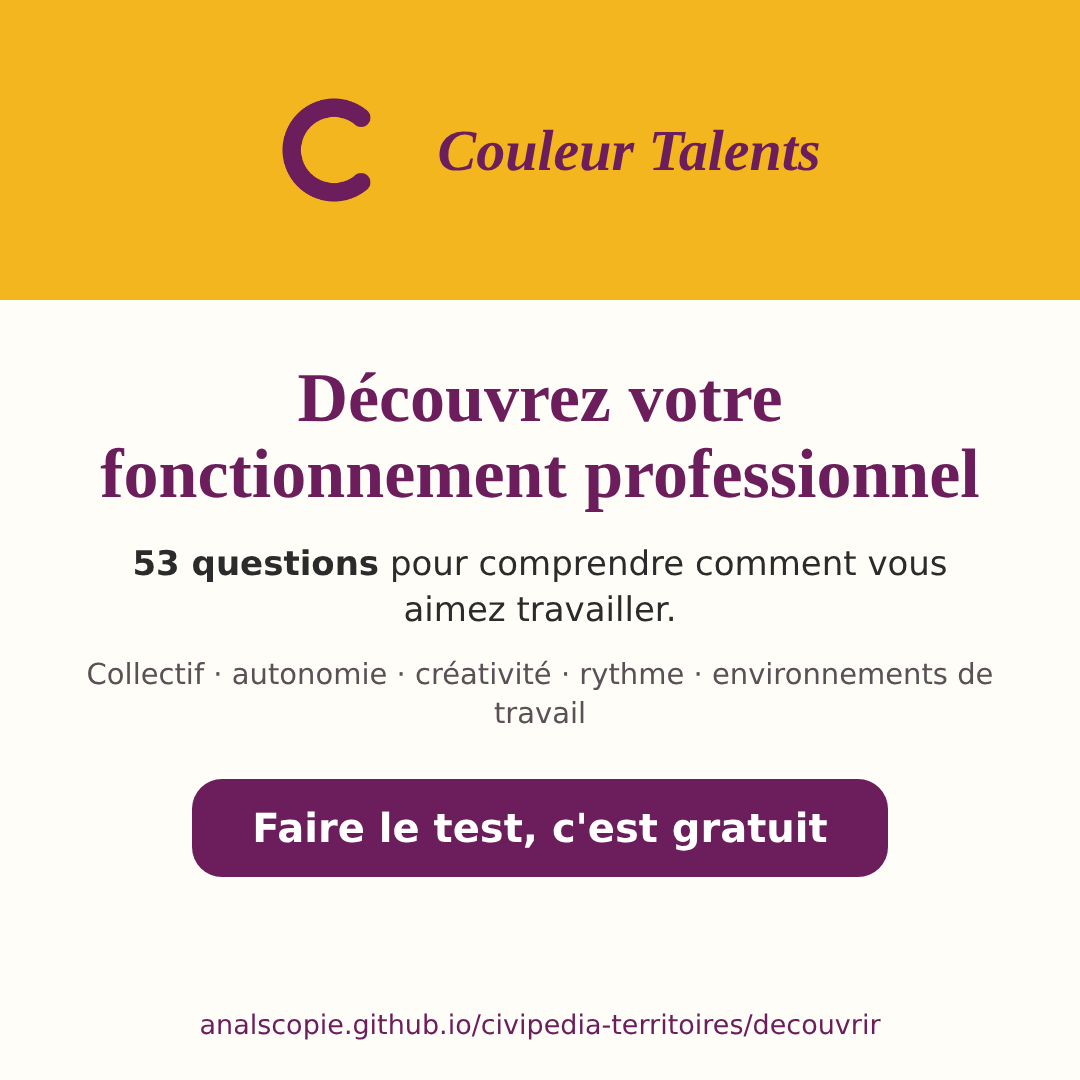
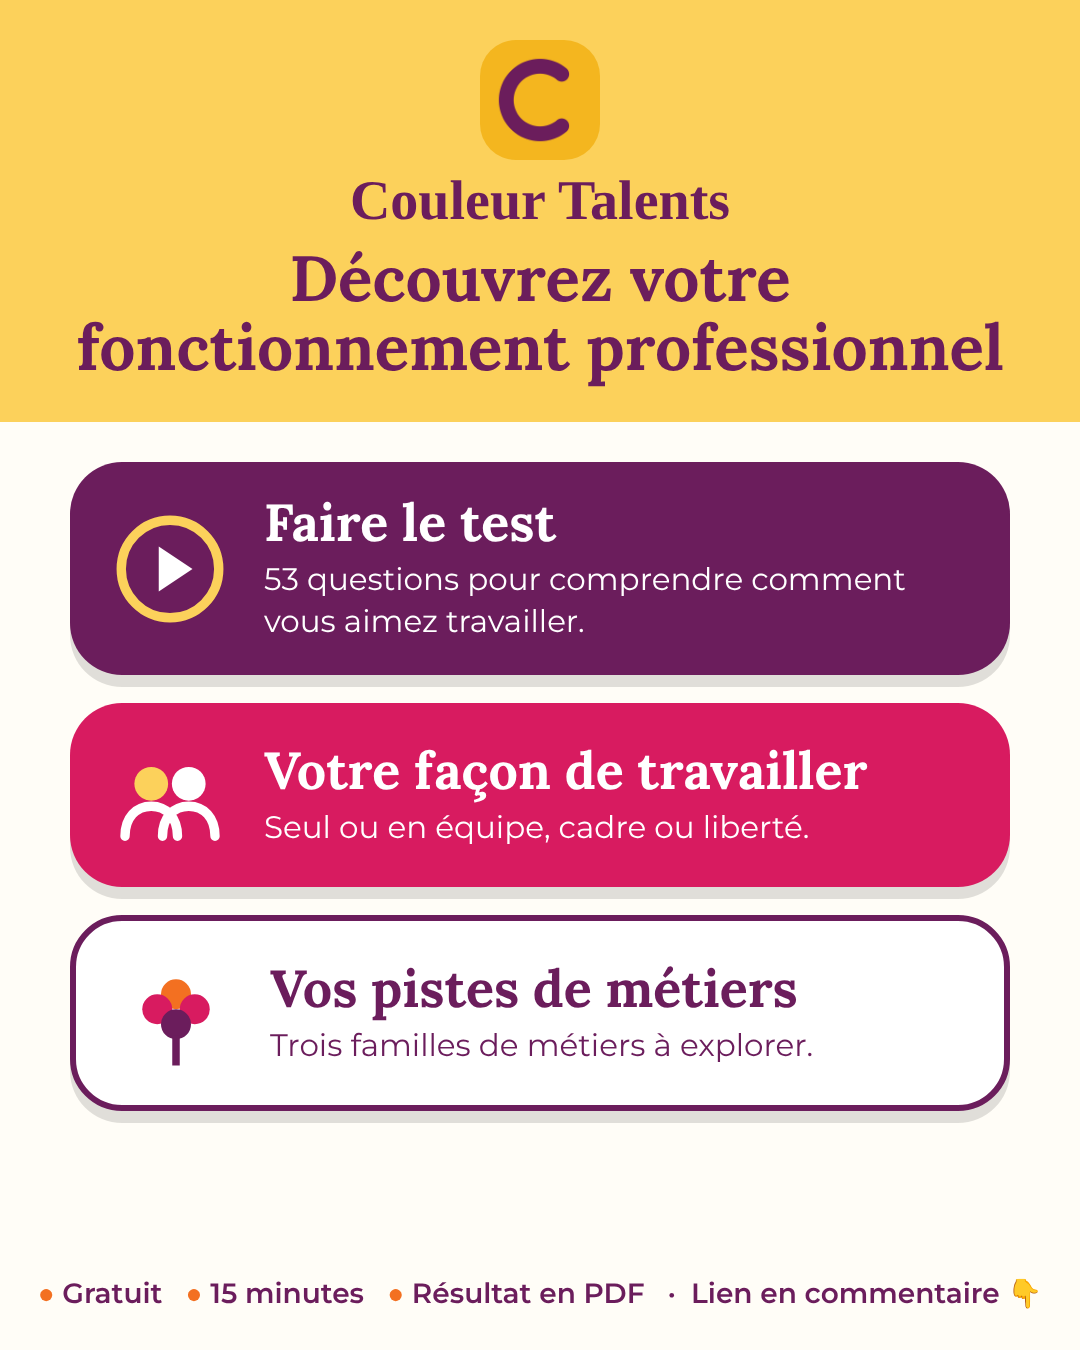
Page Découvrir : style « Mes outils » à gros boutons ; nouvelle image de partage
Claude-Session: https://claude.ai/code/session_01CiTsUJ8RFz2WJzeSsrXTs4

diff --git a/decouvrir/index.html b/decouvrir/index.html
@@ -2,7 +2,7 @@
 <html lang="fr">
 <head>
 <meta charset="utf-8">
-<meta name="viewport" content="width=device-width, initial-scale=1">
+<meta name="viewport" content="width=device-width, initial-scale=1, viewport-fit=cover">
 <title>Découvrez votre fonctionnement professionnel – Couleur Talents</title>
 <meta name="description" content="53 questions pour comprendre comment vous aimez travailler. Un questionnaire d'orientation Couleur Talents, gratuit, avec votre résultat en PDF.">
 <meta property="og:title" content="Découvrez votre fonctionnement professionnel">
@@ -10,76 +10,61 @@
 <meta property="og:image" content="https://analscopie.github.io/civipedia-territoires/decouvrir/partage.png">
 <meta property="og:type" content="website">
 <meta name="twitter:card" content="summary_large_image">
-<meta name="theme-color" content="#FCD15B">
+<meta name="theme-color" content="#F4B61F">
 <link rel="icon" href="icones/icone-192.png">
 <link rel="apple-touch-icon" href="icones/apple-touch-icon.png">
-<link href="https://fonts.googleapis.com/css2?family=Lora:wght@600;700&family=Montserrat:wght@400;500;600;700&display=swap" rel="stylesheet">
+<link href="https://fonts.googleapis.com/css2?family=Lora:wght@700&family=Montserrat:wght@500;600&family=Caveat:wght@600&display=swap" rel="stylesheet">
 <style>
-/* Style des fiches d'analyse Couleur Talents : bandeau jaune arrondi, titres Lora prune,
-   petites étiquettes en capitales, encadrés pastel, bandeau violet en pied de page. */
-:root{--jaune:#FCD15B;--prune:#6B1D5C;--rose:#D81B60;--orange:#F37021;--fond:#FFFDF7;--texte:#2B2B2B;--pj:#FEF3CF;--pr:#F6E6EF;--trait:#F1E6CF}
+/* Même style que la page « Mes outils » : bandeau jaune, gros boutons colorés avec icône. */
+:root{--safran:#FCD15B;--prune:#6B1D5C;--orange:#F37021;--rose:#D81B60;--fond:#FFFDF7;--texte:#2B2B2B}
 *{box-sizing:border-box}
-body{margin:0;background:var(--fond);color:var(--texte);font:17px/1.55 Montserrat,system-ui,sans-serif}
-header{background:var(--jaune);border-radius:0 0 34px 34px;padding:26px 22px 34px}
-.haut{max-width:720px;margin:0 auto}
-.etiquette{font-size:13px;font-weight:700;letter-spacing:.09em;text-transform:uppercase;color:var(--prune);margin:0 0 10px}
-.ligne{display:flex;justify-content:space-between;align-items:flex-start;gap:16px}
-h1{font-family:Lora,Georgia,serif;color:var(--prune);font-size:clamp(32px,7vw,48px);line-height:1.08;margin:0;text-wrap:balance}
-.logo{flex:none;text-align:right;font-family:Lora,Georgia,serif;color:var(--prune);font-size:17px;line-height:1.1}
-.logo svg{display:block;margin:0 0 4px auto;width:44px;height:52px}
-.sous{font-weight:600;margin:12px 0 22px;font-size:18px}
-.bouton{display:block;text-align:center;background:var(--prune);color:#fff;text-decoration:none;font-weight:700;font-size:22px;border-radius:20px;padding:20px 24px;box-shadow:0 6px 0 rgb(0 0 0 / .18)}
-.bouton:active{transform:translateY(3px);box-shadow:0 3px 0 rgb(0 0 0 / .18)}
-.bouton:focus-visible{outline:4px solid var(--orange);outline-offset:4px}
-.infos{display:flex;flex-wrap:wrap;gap:6px 16px;margin:14px 0 0;font-size:14px;font-weight:600;color:var(--prune)}
+body{margin:0;background:var(--fond);color:var(--texte);font:18px/1.5 Montserrat,system-ui,sans-serif;
+  padding:env(safe-area-inset-top) env(safe-area-inset-right) env(safe-area-inset-bottom) env(safe-area-inset-left)}
+header{background:var(--safran);padding:26px 22px 26px;text-align:center}
+header img{width:68px;height:68px;border-radius:18px}
+.marque{font-family:Caveat,cursive;font-size:32px;color:var(--prune);line-height:1;margin-top:4px}
+h1{font-family:Lora,Georgia,serif;color:var(--prune);font-size:clamp(28px,7vw,38px);line-height:1.1;margin:8px auto 0;max-width:560px;text-wrap:balance}
+main{max-width:560px;margin:0 auto;padding:22px 18px 30px;display:grid;gap:18px}
+.gros{display:grid;grid-template-columns:64px 1fr;gap:16px;align-items:center;text-decoration:none;color:#fff;
+  border-radius:26px;padding:22px 20px;min-height:116px;box-shadow:0 6px 0 rgb(0 0 0 / .12)}
+a.gros:active{transform:translateY(3px);box-shadow:0 3px 0 rgb(0 0 0 / .12)}
+.gros:focus-visible{outline:4px solid var(--orange);outline-offset:3px}
+.gros svg{width:64px;height:64px}
+.gros b{display:block;font-family:Lora,Georgia,serif;font-size:24px;line-height:1.15}
+.gros span{display:block;font-size:16px;opacity:.95;margin-top:4px}
+.b1{background:var(--prune)}.b2{background:var(--rose)}.b3{background:#fff;color:var(--prune);border:3px solid var(--prune)}
+.go{min-height:132px}.go b{font-size:28px}
+.infos{display:flex;flex-wrap:wrap;justify-content:center;gap:6px 18px;font-size:15px;font-weight:600;color:var(--prune);margin:-4px 0 4px}
 .infos span::before{content:"● ";color:var(--orange)}
-main{max-width:720px;margin:0 auto;padding:26px 22px 34px}
-h2{font-family:Lora,Georgia,serif;color:var(--prune);font-size:24px;margin:0 0 12px}
-.cartes{display:grid;grid-template-columns:repeat(auto-fit,minmax(min(100%,150px),1fr));gap:12px}
-.carte{background:#fff;border:1.5px solid var(--trait);border-radius:16px;padding:14px 16px}
-.carte b{display:block;color:var(--prune);font-size:16px}
-.carte b::before{content:"● ";color:var(--orange)}
-.carte span{font-size:14px;color:#5a5157}
-.duo{display:grid;grid-template-columns:repeat(auto-fit,minmax(min(100%,260px),1fr));gap:12px;margin-top:18px}
-.boite{border-radius:18px;padding:16px 18px}
-.boite.j{background:var(--pj)}.boite.r{background:var(--pr)}
-.boite p{margin:0;font-size:15px}
-.boite .t{font-weight:700;margin-bottom:4px}.boite.j .t{color:var(--rose)}.boite.r .t{color:var(--prune)}
-.encore{margin:24px 0 0}
-footer{background:var(--prune);color:var(--jaune);padding:16px 22px;font-size:14px;font-weight:600}
-footer div{max-width:720px;margin:0 auto;display:flex;justify-content:space-between;gap:10px;flex-wrap:wrap}
-footer a{color:var(--jaune)}
+footer{text-align:center;font-size:14px;color:#6b5f66;padding:0 18px 30px}
+footer a{color:inherit}
 </style>
 </head>
 <body>
 <header>
-  <div class="haut">
-    <p class="etiquette">Questionnaire d'orientation · gratuit</p>
-    <div class="ligne">
-      <h1>Découvrez votre fonctionnement professionnel</h1>
-      <div class="logo"><svg viewBox="0 0 44 52" aria-hidden="true"><path d="M22 52C21 40 23 30 21 20" stroke="#6B1D5C" stroke-width="2.5" fill="none"/><path d="M21 24C14 18 10 12 9 6" stroke="#6B1D5C" stroke-width="2" fill="none"/><path d="M22 22C28 16 33 12 37 5" stroke="#6B1D5C" stroke-width="2" fill="none"/><circle cx="9" cy="6" r="4.5" fill="#F37021"/><circle cx="37" cy="5" r="5" fill="#D81B60"/><circle cx="21" cy="17" r="3.5" fill="#F37021"/></svg>Couleur<br>Talents</div>
-    </div>
-    <p class="sous">53 questions pour comprendre comment vous aimez travailler.</p>
-    <a class="bouton" href="../profil-professionnel/">Faire le test maintenant</a>
-    <div class="infos"><span>Environ 15 minutes</span><span>Résultat en PDF</span><span>Aucune donnée personnelle</span></div>
-  </div>
+  <img src="icones/icone-192.png" alt="">
+  <div class="marque">Couleur Talents</div>
+  <h1>Découvrez votre fonctionnement professionnel</h1>
 </header>
 
 <main>
-  <h2>Ce que vous allez découvrir</h2>
-  <div class="cartes">
-    <div class="carte"><b>Le collectif</b><span>Seul ou en équipe ?</span></div>
-    <div class="carte"><b>L'autonomie</b><span>Cadre clair ou grande liberté ?</span></div>
-    <div class="carte"><b>La créativité</b><span>Méthodes éprouvées ou idées neuves ?</span></div>
-    <div class="carte"><b>Le rythme</b><span>Calme ou effervescence ?</span></div>
-  </div>
-  <div class="duo">
-    <div class="boite j"><p class="t">Votre profil</p><p>Vos points d'appui, et les environnements de travail où vous êtes à votre meilleur.</p></div>
-    <div class="boite r"><p class="t">Vos pistes</p><p>Trois familles de métiers à explorer, et un échange possible avec Couleur Talents.</p></div>
-  </div>
-  <p class="encore"><a class="bouton" href="../profil-professionnel/">Je commence</a></p>
+  <a class="gros b1 go" href="../profil-professionnel/">
+    <svg viewBox="0 0 64 64" aria-hidden="true"><circle cx="32" cy="32" r="26" fill="none" stroke="#FCD15B" stroke-width="5"/><path d="M26 20l18 12-18 12z" fill="#fff"/></svg>
+    <div><b>Faire le test</b><span>53 questions pour comprendre comment vous aimez travailler.</span></div>
+  </a>
+  <div class="infos"><span>Gratuit</span><span>Environ 15 minutes</span><span>Résultat en PDF</span></div>
+
+  <a class="gros b2" href="../profil-professionnel/">
+    <svg viewBox="0 0 64 64" aria-hidden="true"><circle cx="22" cy="26" r="9" fill="#FCD15B"/><circle cx="42" cy="26" r="9" fill="#fff"/><path d="M8 54c0-10 6-16 14-16s14 6 14 16M28 54c0-10 6-16 14-16s14 6 14 16" fill="none" stroke="#fff" stroke-width="5" stroke-linecap="round"/></svg>
+    <div><b>Votre façon de travailler</b><span>Seul ou en équipe, cadre ou liberté, calme ou effervescence.</span></div>
+  </a>
+
+  <a class="gros b3" href="../profil-professionnel/">
+    <svg viewBox="0 0 64 64" aria-hidden="true"><circle cx="32" cy="22" r="8" fill="#F37021"/><circle cx="22" cy="30" r="8" fill="#D81B60"/><circle cx="42" cy="30" r="8" fill="#D81B60"/><circle cx="32" cy="38" r="8" fill="#6B1D5C"/><path d="M32 44v16" stroke="#6B1D5C" stroke-width="4"/></svg>
+    <div><b>Vos pistes de métiers</b><span>Votre profil, vos points d'appui et trois familles de métiers à explorer.</span></div>
+  </a>
 </main>
 
-<footer><div><span>Couleur Talents · Saint-Nazaire</span><a href="https://couleur-talents.fr/" target="_blank" rel="noopener">couleur-talents.fr</a></div></footer>
+<footer>Proposé par <a href="https://couleur-talents.fr/" target="_blank" rel="noopener">Couleur Talents</a> · Saint-Nazaire · aucune donnée personnelle demandée</footer>
 </body>
 </html>
